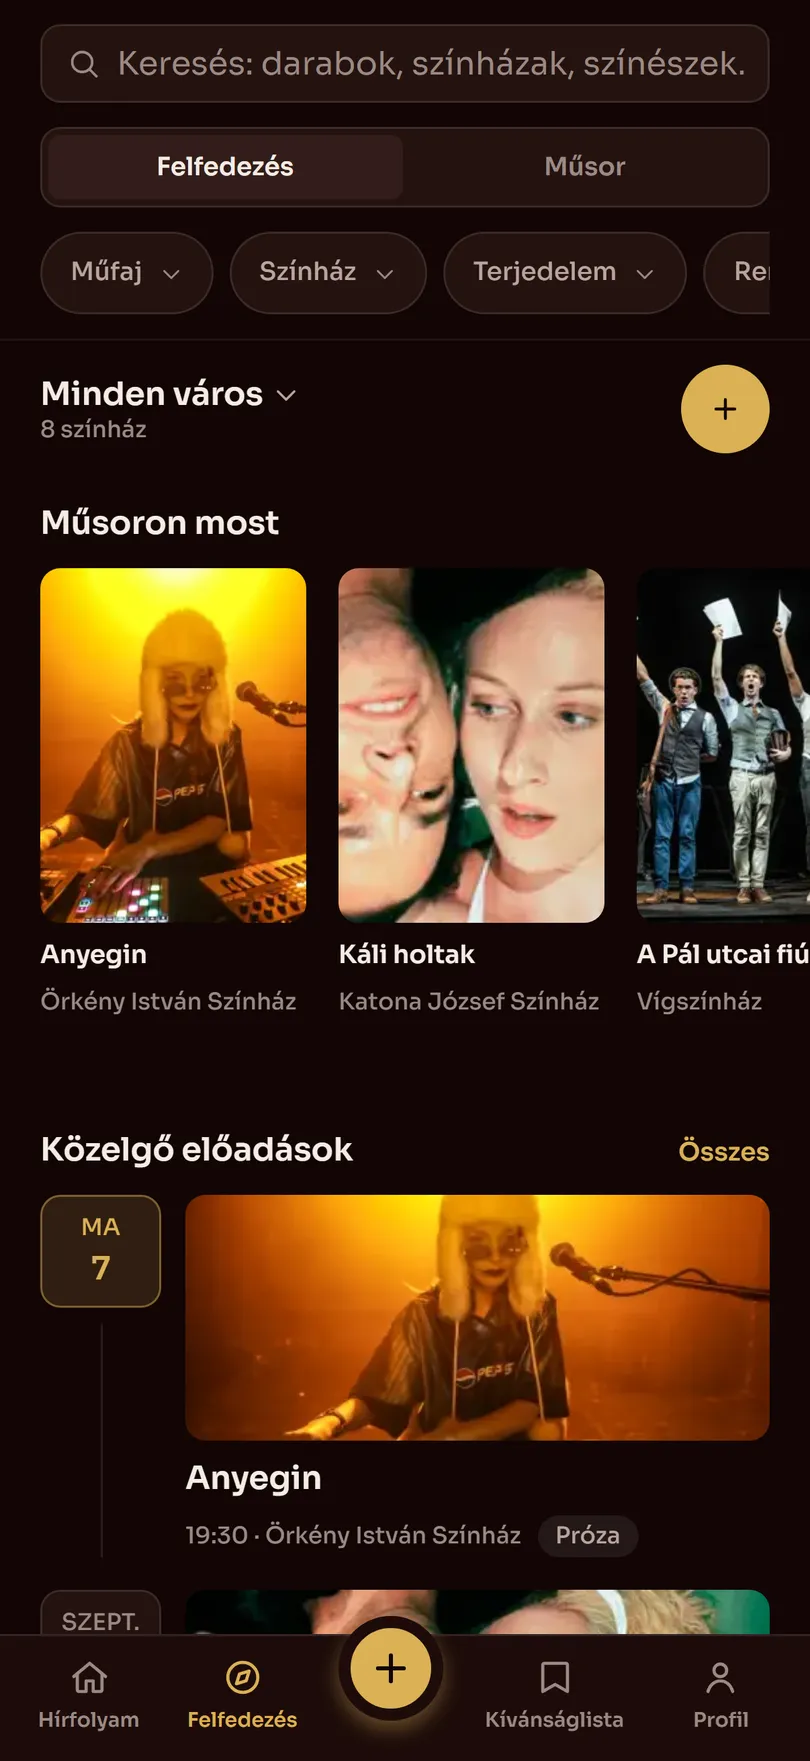
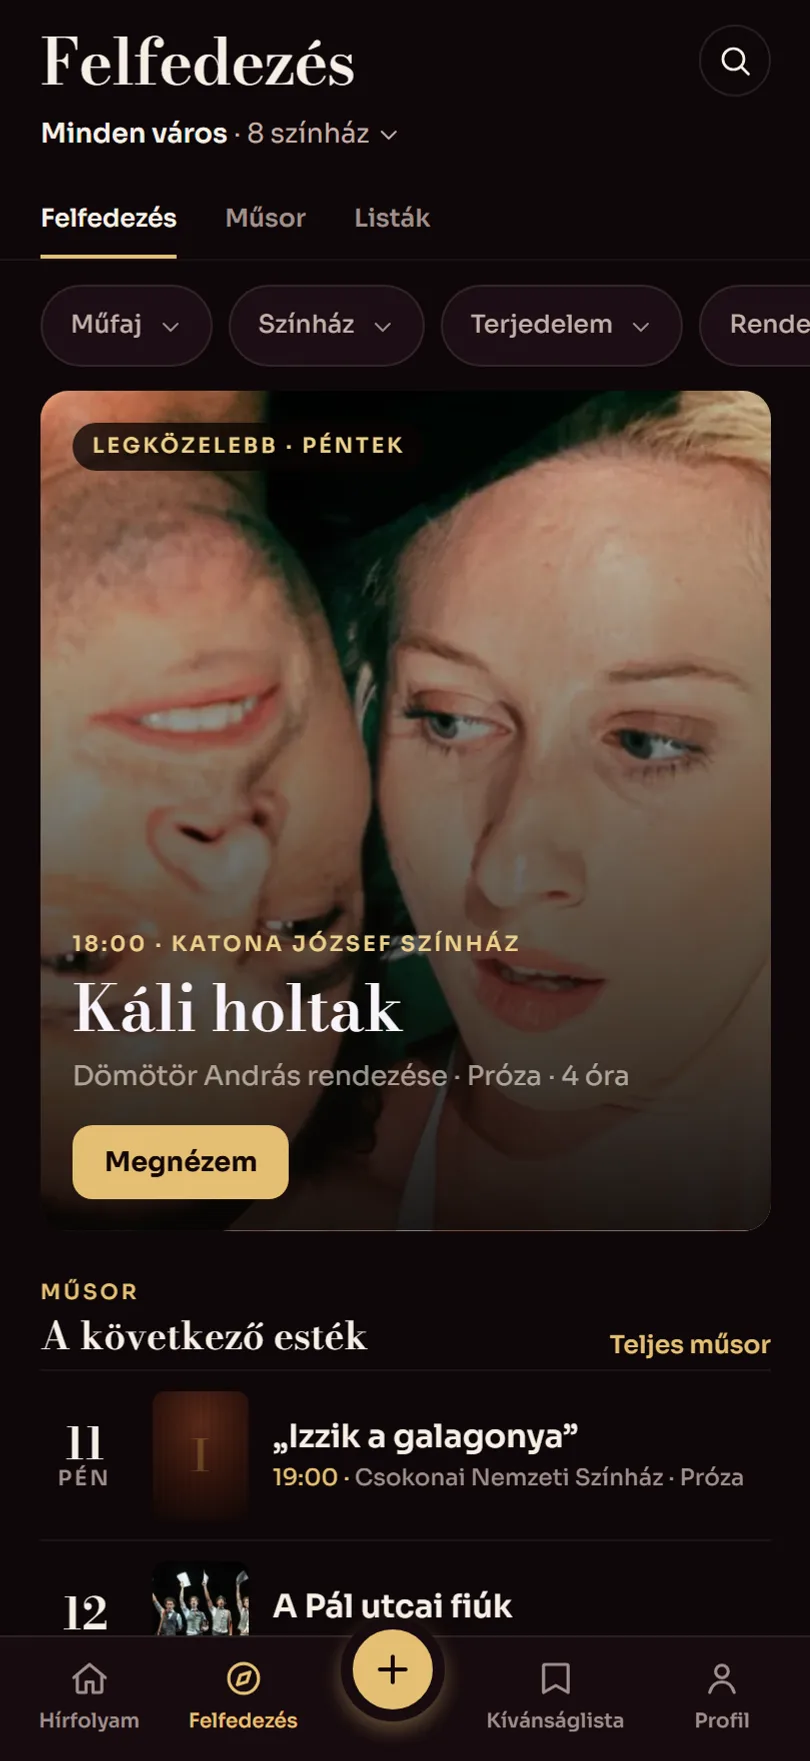
Bring the landing page up to the second-act design
The page sold velvet and gold with screenshots of the old app. Now it is
cut in the re-tuned palette (plum-black ground, claret surfaces, champagne
gold), every phone shows the shipped design — Discover's next-evening lead
as the hero and on the share card, the programme rows, the Műsor tab, the
title-on-poster play page — and the figures are today's: 1,199 productions,
2,557 names, 486 announced dates. The theme copy names the two defaults,
and the copy on people notes that alternates are credited.

diff --git a/landing/index.html b/landing/index.html
@@ -3,7 +3,7 @@
 <head>
 <meta charset="utf-8">
 <meta name="viewport" content="width=device-width, initial-scale=1">
-<meta name="theme-color" content="#0b0403">
+<meta name="theme-color" content="#0a0507">
 <title>Vastaps — magyar színházi napló</title>
 <meta name="description" content="Magyar színházi napló — nézd meg, mi megy ma este, és jegyezd fel, amit láttál.">
 <link rel="canonical" href="https://vastaps.pages.dev/">
@@ -65,26 +65,26 @@
 :root {
   color-scheme: dark;
 
-  --ink:        #0b0403;
-  --ink-2:      #120505;
-  --surface:    #1d0c0a;
-  --surface-2:  #251210;
-  --surface-3:  #331d1a;
+  --ink:        #0a0507;
+  --ink-2:      #0f0709;
+  --surface:    #170b0f;
+  --surface-2:  #1c0d13;
+  --surface-3:  #2a1520;
 
   --hairline:      rgba(245,237,228,0.10);
   --hairline-soft: rgba(245,237,228,0.055);
 
-  --text:  #f5ede4;
-  --dim:   #b9a69e;
-  --faint: #9a8a84;
+  --text:  #f6efe6;
+  --dim:   #c2afa8;
+  --faint: #9f8e8a;
 
-  --gold:      #dbb155;
-  --gold-deep: #b28324;
-  --gold-lift: #ecd08a;
-  --on-gold:   #120505;
-  --gold-tint:   rgba(219,177,85,0.14);
-  --gold-edge:   rgba(219,177,85,0.42);
-  --gold-glow:   rgba(219,177,85,0.40);
+  --gold:      #e4bf72;
+  --gold-deep: #a97c2e;
+  --gold-lift: #f0d38f;
+  --on-gold:   #140709;
+  --gold-tint:   rgba(228,191,114,0.14);
+  --gold-edge:   rgba(228,191,114,0.42);
+  --gold-glow:   rgba(228,191,114,0.40);
 
   --display: "Bodoni Moda", "Bodoni MT", "Didot", "Times New Roman", serif;
   --sans: "Sora", ui-sans-serif, system-ui, "Segoe UI", Roboto, sans-serif;
@@ -195,7 +195,7 @@ html { scroll-behavior: smooth; }
   font-size: 0.95rem; font-weight: 600; text-decoration: none; cursor: pointer;
   border: 1px solid transparent; transition: transform 0.16s ease, background 0.2s ease, border-color 0.2s ease, box-shadow 0.2s ease;
 }
-.btn--gold { background: var(--gold); color: var(--on-gold); box-shadow: 0 0 0 rgba(219,177,85,0); }
+.btn--gold { background: var(--gold); color: var(--on-gold); box-shadow: 0 0 0 rgba(228,191,114,0); }
 .btn--gold:hover { background: var(--gold-lift); box-shadow: 0 8px 34px -12px var(--gold-glow); }
 .btn--ghost { border-color: var(--hairline); color: var(--text); background: rgba(245,237,228,0.03); }
 .btn--ghost:hover { border-color: var(--gold-edge); background: var(--gold-tint); }
@@ -216,7 +216,7 @@ html { scroll-behavior: smooth; }
 .hero__light { position: absolute; inset: 0; pointer-events: none; z-index: 0; }
 .beam {
   position: absolute; top: -18%; left: var(--rig-x); width: 46vw; height: 92vh;
-  background: linear-gradient(to bottom, rgba(219,177,85,0.17), rgba(219,177,85,0.045) 42%, rgba(219,177,85,0) 72%);
+  background: linear-gradient(to bottom, rgba(228,191,114,0.17), rgba(228,191,114,0.045) 42%, rgba(228,191,114,0) 72%);
   filter: blur(46px);
   clip-path: polygon(43% 0, 57% 0, 100% 100%, 0 100%);
   opacity: 0;
@@ -227,7 +227,7 @@ html { scroll-behavior: smooth; }
 .pool {
   position: absolute; left: var(--rig-x); top: var(--rig-y); width: min(900px, 128vw); aspect-ratio: 1.75;
   transform: translateX(-50%);
-  background: radial-gradient(ellipse at center, rgba(219,177,85,0.28), rgba(178,131,36,0.10) 38%, rgba(11,4,3,0) 68%);
+  background: radial-gradient(ellipse at center, rgba(228,191,114,0.28), rgba(169,124,46,0.10) 38%, rgba(10,5,7,0) 68%);
   filter: blur(18px);
   opacity: 0;
   animation: beam-up 1.7s ease-out 0.1s forwards;
@@ -458,10 +458,10 @@ html { scroll-behavior: smooth; }
   <div class="shell nav__in">
     <a class="brand" href="#top">
       <svg class="brand__mark" viewBox="0 0 64 64" aria-hidden="true" focusable="false">
-        <path d="M4 9H60V14Q46 23 32 15Q18 23 4 14Z" fill="#dbb155"/>
-        <path d="M6 15H23C20 27 20 41 22 51Q14 56 6 52Z" fill="#dbb155"/>
-        <path d="M58 15H41C44 27 44 41 42 51Q50 56 58 52Z" fill="#dbb155"/>
-        <path d="M32 26.5l2.06 5.67 6.02.2-4.75 3.71 1.67 5.8L32 38.5l-5 3.38 1.67-5.8-4.75-3.71 6.02-.2z" fill="#dbb155"/>
+        <path d="M4 9H60V14Q46 23 32 15Q18 23 4 14Z" fill="#e4bf72"/>
+        <path d="M6 15H23C20 27 20 41 22 51Q14 56 6 52Z" fill="#e4bf72"/>
+        <path d="M58 15H41C44 27 44 41 42 51Q50 56 58 52Z" fill="#e4bf72"/>
+        <path d="M32 26.5l2.06 5.67 6.02.2-4.75 3.71 1.67 5.8L32 38.5l-5 3.38 1.67-5.8-4.75-3.71 6.02-.2z" fill="#e4bf72"/>
       </svg>
       <span class="brand__name">Vastaps</span>
     </a>
@@ -510,7 +510,7 @@ html { scroll-behavior: smooth; }
 
         </div>
         <p class="hero__meta">
-          <span data-t="metaPlays">1213 produkció</span>
+          <span data-t="metaPlays">1199 produkció</span>
           <span data-t="metaCities">Budapest és Debrecen</span>
           <span data-t="metaSync">Éjszakánként frissül</span>
         </p>
@@ -520,7 +520,7 @@ html { scroll-behavior: smooth; }
         <div class="phone" style="--w: 264px" data-parallax="0.045">
           <div class="phone__body">
             <div class="phone__screen">
-              <img src="shots/feed.webp" width="810" height="1761" alt="A Vastaps hírfolyama: Maior Ottó megnézte a Scævola – Gianni Schicchit a Csokonai Nemzeti Színházban, négy maszkkal értékelve." data-t-alt="altFeed">
+              <img src="shots/discover.webp" width="810" height="1761" alt="A Vastaps Felfedezés képernyője: a következő este a Káli holtak a Katona József Színházban, plakáttal, kezdési idővel és egy Megnézem gombbal; alatta a hét további estéi." data-t-alt="altFeed">
               <span class="phone__glare"></span>
             </div>
           </div>
@@ -554,7 +554,7 @@ html { scroll-behavior: smooth; }
         <div class="phone" style="--w: 320px; margin-top: 1.5rem" data-parallax="0.03">
           <div class="phone__body">
             <div class="phone__screen">
-              <img src="shots/discover.webp" width="810" height="1761" loading="lazy" alt="A Felfedezés képernyő: „Műsoron most” sávban az Anyegin, a Káli holtak és A Pál utcai fiúk, alatta a közelgő előadások napokra bontva." data-t-alt="altDiscover">
+              <img src="shots/discover2.webp" width="810" height="1761" loading="lazy" alt="A Felfedezés képernyő folytatása: a következő esték műsorlistaként — dátum, kezdési idő, színház és műfaj soronként —, alatta a szerkesztői listák." data-t-alt="altDiscover">
               <span class="phone__glare"></span>
             </div>
           </div>
@@ -597,7 +597,7 @@ html { scroll-behavior: smooth; }
         <div class="phone phone--tilt" style="--w: 288px; --tilt: 4deg" data-parallax="0.05">
           <div class="phone__body">
             <div class="phone__screen">
-              <img src="shots/musor.webp" width="810" height="1761" loading="lazy" alt="A Műsor naptárnézet: 2026. szeptember 7., egy előadás — Anyegin 19:30-kor az Örkény István Színház Stúdiójában." data-t-alt="altMusor">
+              <img src="shots/musor.webp" width="810" height="1761" loading="lazy" alt="A Műsor naptárnézet: 2026. szeptember 11., két előadás — az „Izzik a galagonya” a Csokonai Nemzeti Színházban 19:00-kor, és a Káli holtak a Katona Kamrájában 18:00-kor." data-t-alt="altMusor">
               <span class="phone__glare"></span>
             </div>
           </div>
@@ -615,7 +615,7 @@ html { scroll-behavior: smooth; }
           <div class="phone phone--tilt" style="--w: 288px; --tilt: -4deg" data-parallax="0.05">
             <div class="phone__body">
               <div class="phone__screen">
-                <img src="shots/play.webp" width="810" height="1761" loading="lazy" alt="A Pál utcai fiúk adatlapja a Csokonai Nemzeti Színházból: plakát, 4,0-s átlag, és külön sáv a színészi játékra, a rendezésre és a díszletre." data-t-alt="altPlay">
+                <img src="shots/play.webp" width="810" height="1761" loading="lazy" alt="A Lidércek, Shaxpeare, Delírium adatlapja az Örkény István Színházból: a cím és az alkotók a plakáton, alatta a „Műsoron” állapot a következő időponttal, egy naplózás gomb, és 5,0-s átlag külön sávval a színészi játékra, a rendezésre és a díszletre." data-t-alt="altPlay">
                 <span class="phone__glare"></span>
               </div>
             </div>
@@ -673,7 +673,7 @@ html { scroll-behavior: smooth; }
         <div class="split__copy" data-reveal>
           <p class="eyebrow" data-t="p1Eyebrow">Színészek és rendezők</p>
           <h2 data-t="p1Title">Ki volt az a színésznő a második felvonásban?</h2>
-          <p class="body-dim" data-t="p1Body">A katalógus 2424 névvel indul. Rákeresel egy színészre, és előjön minden előadás, amiben játszott — szereppel, évszámmal, színházzal. A rendezők ugyanígy.</p>
+          <p class="body-dim" data-t="p1Body">A katalógus 2557 névvel indul — ha egy szerepet ketten játszanak, mindkettőjüket tudja. Rákeresel egy színészre, és előjön minden előadás, amiben játszott — szereppel, évszámmal, színházzal. A rendezők ugyanígy.</p>
           <p class="body-dim" data-t="p1Body2">Ha bejelentkezel, szólunk, amikor egy követett alkotó új előadásban lép színpadra.</p>
         </div>
         <div class="split__art duo" data-reveal>
@@ -739,7 +739,7 @@ html { scroll-behavior: smooth; }
         <article class="tile" data-reveal>
           <svg class="tile__icon" viewBox="0 0 24 24" fill="none" stroke="currentColor" stroke-width="1.6" stroke-linecap="round" stroke-linejoin="round" aria-hidden="true" focusable="false"><path d="M12 3a9 9 0 1 0 0 18c1.1 0 1.8-.9 1.8-1.8 0-.5-.2-.9-.5-1.2-.3-.3-.5-.7-.5-1.2 0-1 .8-1.8 1.8-1.8H16a5 5 0 0 0 5-5c0-3.9-4-7-9-7Z"/><circle cx="7.7" cy="11.2" r="1.1" fill="currentColor" stroke="none"/><circle cx="11" cy="7.7" r="1.1" fill="currentColor" stroke="none"/><circle cx="15.5" cy="8.6" r="1.1" fill="currentColor" stroke="none"/></svg>
           <h3 data-t="tile5T">Öt téma</h3>
-          <p data-t="tile5B">Sötét bordó, hűvös szén, krémszínű műsorfüzet, halvány lila és tiszta fehér. Mindegyikben minden szövegszín 4,5:1 fölött van — és bejelentkezés nélkül is át lehet váltani.</p>
+          <p data-t="tile5B">Bársony a sötétben, Színlap a világosban — ugyanaz a ház, lámpafényben és nyomtatva —, mellettük levendula, letisztult fehér és éjszakai szén. Mindegyikben minden szövegszín 4,5:1 fölött van, és bejelentkezés nélkül is át lehet váltani.</p>
         </article>
 
         <article class="tile" data-reveal>
@@ -754,9 +754,9 @@ html { scroll-behavior: smooth; }
 
   <!-- ── Tally ────────────────────────────────────────────────────────── -->
   <section class="tally" aria-label="A katalógus számokban" data-t-label="tallyLabel">
-    <div class="tally__cell"><span class="tally__n" data-count="1213">1213</span><span class="tally__k" data-t="tally1">Produkció</span></div>
-    <div class="tally__cell"><span class="tally__n" data-count="2424">2424</span><span class="tally__k" data-t="tally2">Alkotó</span></div>
-    <div class="tally__cell"><span class="tally__n" data-count="454">454</span><span class="tally__k" data-t="tally3">Meghirdetett időpont</span></div>
+    <div class="tally__cell"><span class="tally__n" data-count="1199">1199</span><span class="tally__k" data-t="tally1">Produkció</span></div>
+    <div class="tally__cell"><span class="tally__n" data-count="2557">2557</span><span class="tally__k" data-t="tally2">Alkotó</span></div>
+    <div class="tally__cell"><span class="tally__n" data-count="486">486</span><span class="tally__k" data-t="tally3">Meghirdetett időpont</span></div>
     <div class="tally__cell"><span class="tally__n" data-count="1960" data-plain="1">1960</span><span class="tally__k" data-t="tally4">A legrégebbi bemutató</span></div>
   </section>
 
@@ -773,7 +773,7 @@ html { scroll-behavior: smooth; }
         <div class="specs__row"><dt class="specs__k">Supabase · Postgres · RLS</dt><dd class="specs__v" data-t="spec2">Ki mit lát, az sorszinten, az adatbázisban dől el — nem az appban.</dd></div>
         <div class="specs__row"><dt class="specs__k" data-t="spec3K">Tíz beolvasó</dt><dd class="specs__v" data-t="spec3">Minden éjjel újraolvassa a színházak saját oldalait. Jegyirodai közvetítő nélkül.</dd></div>
         <div class="specs__row"><dt class="specs__k">WCAG AA</dt><dd class="specs__v" data-t="spec4">Mind az öt témában minden szövegszín 4,5:1 kontraszt fölött van, kártyán is.</dd></div>
-        <div class="specs__row"><dt class="specs__k">expo-router</dt><dd class="specs__v" data-t="spec5">Minden képernyőnek saját URL-je van, és megosztható — a darabtól az alkotóig.</dd></div>
+        <div class="specs__row"><dt class="specs__k">expo-router</dt><dd class="specs__v" data-t="spec5">Minden képernyőnek saját URL-je van, és megosztható — a darabtól az alkotóig. Telefonon alsó fülsor, asztali gépen felső menü: ugyanaz az app, kétféle szobában.</dd></div>
         <div class="specs__row"><dt class="specs__k" data-t="spec6K">Ami még nincs kész</dt><dd class="specs__v" data-t="spec6">Az iOS- és Android-build készül. A webes verzió most is működik telefonon.</dd></div>
       </dl>
     </div>
@@ -864,8 +864,8 @@ html { scroll-behavior: smooth; }
     heroTitle: "Hungarian theatre,<br><em>in one diary</em>.",
     heroLede: "See what is on tonight in Budapest and Debrecen. Note down what you saw, rate it, and years from now still know which night it was.",
     ctaOpen: "Open the app", ctaTour: "How it works",
-    metaPlays: "1,213 productions", metaCities: "Budapest and Debrecen", metaSync: "Synced nightly",
-    altFeed: "The Vastaps feed: Maior Ottó saw Scævola – Gianni Schicchi at the Csokonai National Theatre, rated four masks.",
+    metaPlays: "1,199 productions", metaCities: "Budapest and Debrecen", metaSync: "Synced nightly",
+    altFeed: "The Vastaps Discover screen: the next evening is Káli holtak at the Katona József Theatre, with the poster, the curtain time and a button to open it; below it, the rest of the week.",
 
     housesLabel: "Theatres in the catalogue",
     housesNote: "More theatres and more cities are coming — wherever people ask for them next.",
@@ -874,7 +874,7 @@ html { scroll-behavior: smooth; }
     act1: "Discover",
     d1Title: "What is on tonight, on one screen.",
     d1Lede: "Everything playing in Budapest and Debrecen in one place — not through a ticket agency, but read straight from the theatres’ own sites, every night.",
-    altDiscover: "The Discover screen: an “On now” rail with Anyegin, Káli holtak and A Pál utcai fiúk, and upcoming performances broken down by day.",
+    altDiscover: "The Discover screen, further down: the next evenings as a programme — date, curtain time, theatre and genre on each line — and the editorial lists below.",
 
     d2Eyebrow: "Listings",
     d2Title: "Not a list of plays. A list of evenings.",
@@ -884,10 +884,10 @@ html { scroll-behavior: smooth; }
     d2Point3: "<b>And the archive.</b> Close to nine hundred past productions, long since taken off. Still searchable, still loggable.",
     d2StatesLabel: "The app knows four states",
     stAnnounced: "Before opening night", stRunning: "On now", stDormant: "Dormant", stEnded: "Taken off",
-    altMusor: "The listings calendar: 7 September 2026, one performance — Anyegin at 19:30 in the Örkény István Theatre’s studio.",
+    altMusor: "The listings calendar: 11 September 2026, two performances — “Izzik a galagonya” at the Csokonai National Theatre at 19:00, and Káli holtak in the Katona’s Kamra at 18:00.",
 
     act2: "The diary",
-    altPlay: "The page for A Pál utcai fiúk at the Csokonai National Theatre: poster, a 4.0 average, and separate bars for acting, directing and set design.",
+    altPlay: "The page for Lidércek, Shaxpeare, Delírium at the Örkény István Theatre: the title and credits set on the poster, an “On now” line with the next date, a log button, and a 5.0 average with separate bars for acting, directing and set design.",
     j1Eyebrow: "Logging a performance",
     j1Title: "Five masks, three categories, one evening.",
     j1Body: "Log a performance: which night you went, where you sat, what the ticket cost. You rate the acting, the directing and the set separately — and you can write down what you made of it.",
@@ -904,7 +904,7 @@ html { scroll-behavior: smooth; }
     act3: "People",
     p1Eyebrow: "Performers and directors",
     p1Title: "Who was that actress in the second act?",
-    p1Body: "The catalogue starts with 2,424 names. Search for a performer and every production they have appeared in comes back — with the role, the year and the house. Directors work the same way.",
+    p1Body: "The catalogue starts with 2,557 names — when two people share a part, it knows both. Search for a performer and every production they have appeared in comes back — with the role, the year and the house. Directors work the same way.",
     p1Body2: "Sign in and we will tell you when someone you follow steps on stage in a new production.",
     altSearch: "Searching for “Csuja Imre”: the performer match with 49 credits, and below it 50 productions, 47 of them no longer running.",
     altPerson: "Für Anikó’s page: 48 credits at one theatre, from 2002 to 2027, with the productions and roles below.",
@@ -918,7 +918,7 @@ html { scroll-behavior: smooth; }
     tile3T: "Feed",
     tile3B: "Who saw what, and what they made of it. Follow people, or read everyone’s entries.",
     tile5T: "Five themes",
-    tile5B: "Dark burgundy, cool charcoal, cream playbill, pale lilac and plain white. Every text colour clears 4.5:1 in all five — and you can switch without signing in.",
+    tile5B: "Velvet in the dark, Playbill in the light — the same house, lit and printed — plus lavender, plain white and a night-time charcoal. Every text colour clears 4.5:1 in all five, and you can switch without signing in.",
     tile6T: "You don’t buy tickets here",
     tile6B: "Vastaps is not a box office and does not want to be. One tap takes you to the theatre’s own page, where you can actually buy the seat.",
 
@@ -933,7 +933,7 @@ html { scroll-behavior: smooth; }
     spec3K: "Ten sync adapters",
     spec3: "Re-reads the theatres’ own sites every night. No ticket-agency middleman.",
     spec4: "Every text colour clears 4.5:1 in all five themes, on cards as well as on the page.",
-    spec5: "Every screen has its own URL and can be shared — from a production to a performer.",
+    spec5: "Every screen has its own URL and can be shared — from a production to a performer. A tab bar on a phone, a top bar on a desktop: one app, two rooms.",
     spec6K: "What is not finished",
     spec6: "The iOS and Android builds are in progress. The web version already works on a phone.",
 

diff --git a/landing/og.html b/landing/og.html
@@ -24,8 +24,8 @@ html, body { width: 1200px; height: 630px; overflow: hidden; }
 
 body {
   position: relative;
-  background: #0b0403;
-  color: #f5ede4;
+  background: #0a0507;
+  color: #f6efe6;
   font-family: "Sora", system-ui, sans-serif;
   display: flex;
   align-items: center;
@@ -39,7 +39,7 @@ body {
 .rig { position: absolute; inset: 0; pointer-events: none; }
 .beam {
   position: absolute; top: -22%; left: 74%; width: 420px; height: 150%;
-  background: linear-gradient(to bottom, rgba(219,177,85,0.20), rgba(219,177,85,0.05) 44%, rgba(219,177,85,0) 74%);
+  background: linear-gradient(to bottom, rgba(228,191,114,0.20), rgba(228,191,114,0.05) 44%, rgba(228,191,114,0) 74%);
   filter: blur(44px);
   clip-path: polygon(42% 0, 58% 0, 100% 100%, 0 100%);
 }
@@ -48,11 +48,11 @@ body {
 .pool {
   position: absolute; left: 74%; top: 20%; width: 880px; aspect-ratio: 1.75;
   transform: translateX(-50%);
-  background: radial-gradient(ellipse at center, rgba(219,177,85,0.26), rgba(178,131,36,0.09) 38%, rgba(11,4,3,0) 68%);
+  background: radial-gradient(ellipse at center, rgba(228,191,114,0.26), rgba(169,124,46,0.09) 38%, rgba(10,5,7,0) 68%);
   filter: blur(16px);
 }
 /* A gold hairline along the top edge — the pelmet above a stage. */
-.pelmet { position: absolute; inset: 0 0 auto; height: 4px; background: linear-gradient(90deg, rgba(219,177,85,0), #dbb155 22%, #ecd08a 50%, #dbb155 78%, rgba(219,177,85,0)); }
+.pelmet { position: absolute; inset: 0 0 auto; height: 4px; background: linear-gradient(90deg, rgba(228,191,114,0), #e4bf72 22%, #f0d38f 50%, #e4bf72 78%, rgba(228,191,114,0)); }
 
 .copy { position: relative; z-index: 1; width: 620px; display: flex; flex-direction: column; gap: 22px; }
 
@@ -62,19 +62,19 @@ body {
 
 .eyebrow {
   font-size: 17px; font-weight: 500; letter-spacing: 0.2em;
-  text-transform: uppercase; color: #dbb155;
+  text-transform: uppercase; color: #e4bf72;
 }
 
 h1 {
   font-family: "Bodoni Moda", serif;
   font-size: 68px; font-weight: 500; line-height: 1.02; letter-spacing: -0.022em;
 }
-h1 em { font-style: italic; font-weight: 400; color: #dbb155; }
+h1 em { font-style: italic; font-weight: 400; color: #e4bf72; }
 
-.sub { font-size: 22px; font-weight: 300; line-height: 1.5; color: #b9a69e; max-width: 42ch; text-wrap: balance; }
+.sub { font-size: 22px; font-weight: 300; line-height: 1.5; color: #c2afa8; max-width: 42ch; text-wrap: balance; }
 
-.meta { display: flex; gap: 18px; align-items: center; font-size: 17px; color: #9a8a84; font-variant-numeric: tabular-nums; }
-.meta i { width: 4px; height: 4px; border-radius: 50%; background: #b28324; }
+.meta { display: flex; gap: 18px; align-items: center; font-size: 17px; color: #9f8e8a; font-variant-numeric: tabular-nums; }
+.meta i { width: 4px; height: 4px; border-radius: 50%; background: #a97c2e; }
 
 /* The phone is bled off the bottom on purpose: it reads as a real object
    standing in the light rather than a picture pasted onto a rectangle. */
@@ -86,10 +86,10 @@ h1 em { font-style: italic; font-weight: 400; color: #dbb155; }
   box-shadow:
     0 2px 2px rgba(245,237,228,0.10) inset,
     0 44px 92px -30px rgba(0,0,0,0.85),
-    0 0 84px -20px rgba(219,177,85,0.42);
+    0 0 84px -20px rgba(228,191,114,0.42);
   transform: rotate(-5deg);
 }
-.phone__screen { position: relative; border-radius: 11.4%/5.4%; overflow: hidden; background: #120505; }
+.phone__screen { position: relative; border-radius: 11.4%/5.4%; overflow: hidden; background: #0f0709; }
 .phone__screen img { display: block; width: 100%; height: auto; }
 .phone__glare {
   position: absolute; inset: 0; border-radius: inherit;
@@ -109,10 +109,10 @@ h1 em { font-style: italic; font-weight: 400; color: #dbb155; }
 <div class="copy">
   <div class="brand">
     <svg viewBox="0 0 64 64" aria-hidden="true">
-      <path d="M4 9H60V14Q46 23 32 15Q18 23 4 14Z" fill="#dbb155"/>
-      <path d="M6 15H23C20 27 20 41 22 51Q14 56 6 52Z" fill="#dbb155"/>
-      <path d="M58 15H41C44 27 44 41 42 51Q50 56 58 52Z" fill="#dbb155"/>
-      <path d="M32 26.5l2.06 5.67 6.02.2-4.75 3.71 1.67 5.8L32 38.5l-5 3.38 1.67-5.8-4.75-3.71 6.02-.2z" fill="#dbb155"/>
+      <path d="M4 9H60V14Q46 23 32 15Q18 23 4 14Z" fill="#e4bf72"/>
+      <path d="M6 15H23C20 27 20 41 22 51Q14 56 6 52Z" fill="#e4bf72"/>
+      <path d="M58 15H41C44 27 44 41 42 51Q50 56 58 52Z" fill="#e4bf72"/>
+      <path d="M32 26.5l2.06 5.67 6.02.2-4.75 3.71 1.67 5.8L32 38.5l-5 3.38 1.67-5.8-4.75-3.71 6.02-.2z" fill="#e4bf72"/>
     </svg>
     <span>Vastaps</span>
   </div>
@@ -129,7 +129,7 @@ h1 em { font-style: italic; font-weight: 400; color: #dbb155; }
   <div class="phone">
     <div class="phone__body">
       <div class="phone__screen">
-        <img id="shot" src="shots/feed.webp" width="810" height="1761" alt="">
+        <img id="shot" src="shots/discover.webp" width="810" height="1761" alt="">
         <span class="phone__glare"></span>
       </div>
     </div>
